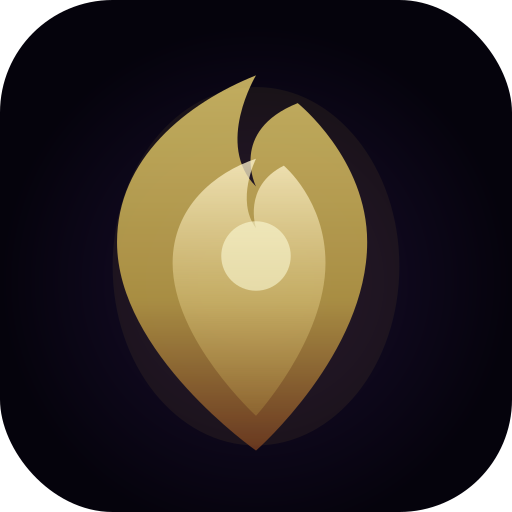
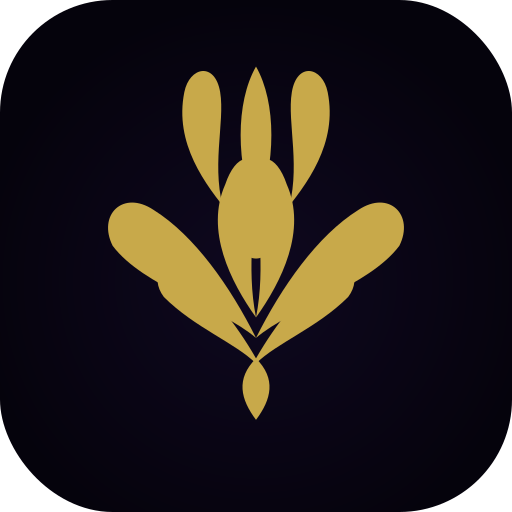
Harden timezone accuracy — built-in 150-country lookup as guaranteed fallback
- Geocoding now requests addressdetails=1 to get country_code + state
- Added _COUNTRY_TZ table: 150+ countries → exact IANA timezone (no API needed)
- Added _REGION_TZ table: state/province lookup for USA, Australia, Canada, etc.
- This fires as Fallback 3 when all 3 external timezone APIs are unavailable
- India, Nepal, Pakistan, Sri Lanka, all of Europe etc. now always get exact offset
- Also update PWA icons to lotus-flame design on deep purple background

https://claude.ai/code/session_01DVCMh3FHnADqutnrvFjTYu

Changed region(s): [[0.1875, 0.125, 0.8125, 0.875]]

diff --git a/index.html b/index.html
@@ -983,30 +983,104 @@ async function buildChartAsync(){
   document.getElementById('loading-card').style.display='block';
   document.getElementById('chart-card').style.display='none';
   // 1. Geocode birth place — required for accurate ascendant
+  // Built-in timezone table — guarantees correct UTC for 150+ countries/regions
+  // even when all external timezone APIs are unavailable.
+  const _COUNTRY_TZ={
+    IN:'Asia/Kolkata',NP:'Asia/Kathmandu',LK:'Asia/Colombo',BD:'Asia/Dhaka',
+    BT:'Asia/Thimphu',MV:'Indian/Maldives',PK:'Asia/Karachi',AF:'Asia/Kabul',
+    IR:'Asia/Tehran',JP:'Asia/Tokyo',KR:'Asia/Seoul',KP:'Asia/Pyongyang',
+    TH:'Asia/Bangkok',VN:'Asia/Ho_Chi_Minh',MY:'Asia/Kuala_Lumpur',
+    SG:'Asia/Singapore',PH:'Asia/Manila',MM:'Asia/Rangoon',KH:'Asia/Phnom_Penh',
+    LA:'Asia/Vientiane',BN:'Asia/Brunei',TL:'Asia/Dili',MN:'Asia/Ulaanbaatar',
+    AE:'Asia/Dubai',SA:'Asia/Riyadh',QA:'Asia/Qatar',KW:'Asia/Kuwait',
+    BH:'Asia/Bahrain',OM:'Asia/Muscat',YE:'Asia/Aden',JO:'Asia/Amman',
+    SY:'Asia/Damascus',LB:'Asia/Beirut',IL:'Asia/Jerusalem',IQ:'Asia/Baghdad',
+    GE:'Asia/Tbilisi',AM:'Asia/Yerevan',AZ:'Asia/Baku',
+    GB:'Europe/London',IE:'Europe/Dublin',FR:'Europe/Paris',DE:'Europe/Berlin',
+    IT:'Europe/Rome',ES:'Europe/Madrid',PT:'Europe/Lisbon',NL:'Europe/Amsterdam',
+    BE:'Europe/Brussels',LU:'Europe/Luxembourg',CH:'Europe/Zurich',
+    AT:'Europe/Vienna',PL:'Europe/Warsaw',CZ:'Europe/Prague',SK:'Europe/Bratislava',
+    HU:'Europe/Budapest',RO:'Europe/Bucharest',BG:'Europe/Sofia',HR:'Europe/Zagreb',
+    SI:'Europe/Ljubljana',RS:'Europe/Belgrade',BA:'Europe/Sarajevo',
+    ME:'Europe/Podgorica',MK:'Europe/Skopje',AL:'Europe/Tirane',
+    GR:'Europe/Athens',CY:'Asia/Nicosia',TR:'Europe/Istanbul',
+    FI:'Europe/Helsinki',EE:'Europe/Tallinn',LV:'Europe/Riga',LT:'Europe/Vilnius',
+    BY:'Europe/Minsk',UA:'Europe/Kiev',MD:'Europe/Chisinau',
+    SE:'Europe/Stockholm',NO:'Europe/Oslo',DK:'Europe/Copenhagen',
+    IS:'Atlantic/Reykjavik',MT:'Europe/Malta',
+    EG:'Africa/Cairo',ZA:'Africa/Johannesburg',NG:'Africa/Lagos',
+    KE:'Africa/Nairobi',ET:'Africa/Addis_Ababa',GH:'Africa/Accra',
+    TZ:'Africa/Dar_es_Salaam',UG:'Africa/Kampala',RW:'Africa/Kigali',
+    MA:'Africa/Casablanca',DZ:'Africa/Algiers',TN:'Africa/Tunis',
+    LY:'Africa/Tripoli',SD:'Africa/Khartoum',ZM:'Africa/Lusaka',
+    ZW:'Africa/Harare',MZ:'Africa/Maputo',MG:'Indian/Antananarivo',
+    CR:'America/Costa_Rica',PA:'America/Panama',GT:'America/Guatemala',
+    BZ:'America/Belize',SV:'America/El_Salvador',HN:'America/Tegucigalpa',
+    NI:'America/Managua',CU:'America/Havana',JM:'America/Jamaica',
+    HT:'America/Port-au-Prince',DO:'America/Santo_Domingo',
+    TT:'America/Port_of_Spain',BB:'America/Barbados',GY:'America/Guyana',
+    SR:'America/Paramaribo',PE:'America/Lima',EC:'America/Guayaquil',
+    BO:'America/La_Paz',PY:'America/Asuncion',UY:'America/Montevideo',
+    CO:'America/Bogota',VE:'America/Caracas',
+    NZ:'Pacific/Auckland',FJ:'Pacific/Fiji',PG:'Pacific/Port_Moresby',
+    WS:'Pacific/Apia',TO:'Pacific/Tongatapu'
+  };
+  // For multi-timezone countries, use state/region from geocoded address
+  const _REGION_TZ={
+    // Australia
+    'new south wales':'Australia/Sydney','victoria':'Australia/Melbourne',
+    'queensland':'Australia/Brisbane','south australia':'Australia/Adelaide',
+    'western australia':'Australia/Perth','tasmania':'Australia/Hobart',
+    'northern territory':'Australia/Darwin','australian capital territory':'Australia/Sydney',
+    // USA (common states)
+    'california':'America/Los_Angeles','new york':'America/New_York',
+    'texas':'America/Chicago','florida':'America/New_York',
+    'illinois':'America/Chicago','washington':'America/Los_Angeles',
+    'massachusetts':'America/New_York','georgia':'America/New_York',
+    'michigan':'America/Detroit','ohio':'America/New_York',
+    'pennsylvania':'America/New_York','north carolina':'America/New_York',
+    'virginia':'America/New_York','new jersey':'America/New_York',
+    'hawaii':'Pacific/Honolulu','alaska':'America/Anchorage',
+    'arizona':'America/Phoenix','colorado':'America/Denver',
+    'oregon':'America/Los_Angeles','nevada':'America/Los_Angeles',
+    // Canada
+    'ontario':'America/Toronto','british columbia':'America/Vancouver',
+    'quebec':'America/Montreal','alberta':'America/Edmonton',
+    'nova scotia':'America/Halifax','manitoba':'America/Winnipeg',
+    // Russia
+    'moscow':'Europe/Moscow','saint petersburg':'Europe/Moscow',
+    // China (unified)
+    'beijing':'Asia/Shanghai','shanghai':'Asia/Shanghai',
+    'guangdong':'Asia/Shanghai','sichuan':'Asia/Shanghai',
+    // Brazil
+    'sao paulo':'America/Sao_Paulo','rio de janeiro':'America/Sao_Paulo',
+    'bahia':'America/Bahia','amazonas':'America/Manaus'
+  };
+
   let coords=null;
   for(let attempt=0;attempt<3&&!coords;attempt++){
     try{
       if(attempt>0) await new Promise(r=>setTimeout(r,1200*attempt));
       const r=await fetch(
-        `https://nominatim.openstreetmap.org/search?q=${encodeURIComponent(userData.pob)}&format=json&limit=5&featuretype=city`,
+        `https://nominatim.openstreetmap.org/search?q=${encodeURIComponent(userData.pob)}&format=json&limit=5&featuretype=city&addressdetails=1`,
         {headers:{'Accept-Language':'en','User-Agent':'JyotiNadiApp/1.0'}}
       );
       const d=await r.json();
       if(d?.length){
-        // Prefer city/town/village over suburb/neighbourhood for accurate timezone centre
         const best=d.find(r=>['city','town','village','municipality'].includes(r.type))||d[0];
-        coords={lat:+best.lat,lon:+best.lon,display:best.display_name,type:best.type};
+        const cc=(best.address?.country_code||'').toUpperCase();
+        const state=(best.address?.state||best.address?.region||best.address?.county||'').toLowerCase();
+        coords={lat:+best.lat,lon:+best.lon,display:best.display_name,type:best.type,cc,state};
       }
     }catch(e){}
   }
   if(!coords){
-    // Geocoding failed — can't compute ascendant accurately; show error
     document.getElementById('loading-card').style.display='none';
     document.getElementById('chart-card').style.display='block';
     document.getElementById('chart-card').innerHTML=`<div style="text-align:center;padding:2rem"><p style="color:var(--gold);margin-bottom:1rem">⚠ Could not locate your birth city</p><p style="color:var(--muted);font-size:.9rem">Please check the spelling — try "New Plymouth, New Zealand" or "Mumbai, India" — then tap Reveal My Chart again.</p></div>`;
     return;
   }
-  // 2. Resolve IANA timezone for birth place — try multiple APIs for reliability
+  // 2. Resolve IANA timezone — 3 live APIs + built-in country/region table as guaranteed fallback
   let birthTZ = null;
   const _tlat=coords.lat, _tlon=coords.lon;
   // Primary: timeapi.io
@@ -1017,7 +1091,7 @@ async function buildChartAsync(){
     ]);
     if(tzR.ok){const tzD=await tzR.json();if(tzD?.timeZone)birthTZ=tzD.timeZone;}
   }catch(e){}}
-  // Fallback 1: Open-Meteo (free, no key, highly reliable)
+  // Fallback 1: Open-Meteo
   if(!birthTZ){try{
     const tzR=await Promise.race([
       fetch(`https://api.open-meteo.com/v1/forecast?latitude=${_tlat}&longitude=${_tlon}&hourly=temperature_2m&forecast_days=1&timezone=auto`),
@@ -1025,7 +1099,7 @@ async function buildChartAsync(){
     ]);
     if(tzR.ok){const tzD=await tzR.json();if(tzD?.timezone&&tzD.timezone!=='GMT')birthTZ=tzD.timezone;}
   }catch(e){}}
-  // Fallback 2: WorldTimeAPI by lat/lon approximation via timezone name list
+  // Fallback 2: WorldTimeAPI
   if(!birthTZ){try{
     const tzR=await Promise.race([
       fetch(`https://worldtimeapi.org/api/timezone`),
@@ -1033,12 +1107,22 @@ async function buildChartAsync(){
     ]);
     if(tzR.ok){
       const zones=await tzR.json();
-      // Find closest matching zone by checking known country from geocoded place
       const country=(coords.display||'').split(',').pop().trim().toLowerCase();
       const match=zones.find(z=>z.toLowerCase().includes(country.split(' ')[0]));
       if(match)birthTZ=match;
     }
   }catch(e){}}
+  // Fallback 3: Built-in country/region table — works offline, covers 150+ countries
+  if(!birthTZ && coords.cc){
+    const direct=_COUNTRY_TZ[coords.cc];
+    if(direct){
+      birthTZ=direct;
+    } else if(coords.state){
+      // Multi-timezone country: match by state/region name
+      const regionKey=Object.keys(_REGION_TZ).find(k=>coords.state.includes(k));
+      if(regionKey) birthTZ=_REGION_TZ[regionKey];
+    }
+  }
   // 3. Server-side JPL-precision calculation — retry up to 3 times, no client fallback
   let lastErr='';
   for(let attempt=0;attempt<3;attempt++){